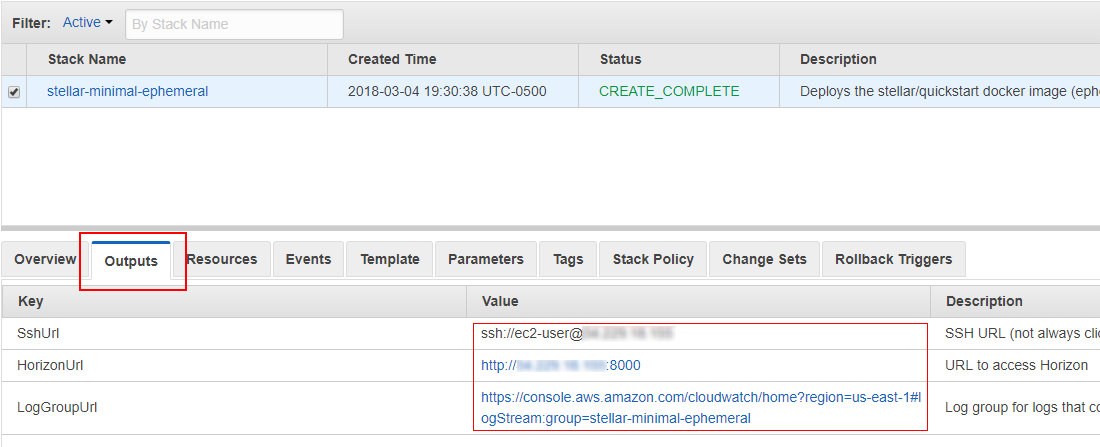
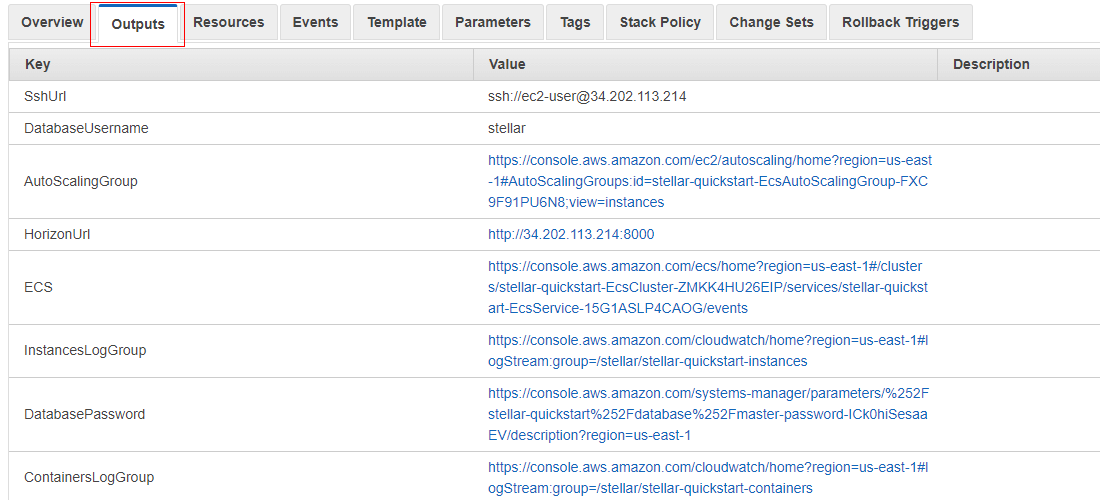
Auto-generate DB pass via CloudFormation and up docs accordingly
DB pass generated using backported SecretsManager.getRandomPassword()
Password is not stored in the param store instead of being shown in the
log file.

Changed region(s): [[0.0, 0.0, 1.0, 0.9888], [0.0, 0.9016, 0.1545, 0.9888], [0.0, 0.349, 0.1236, 0.3781]]

diff --git a/quickstart/README.md b/quickstart/README.md
@@ -91,10 +91,10 @@ It will take about 5 minutes for everything to be deloyed. You will see the reso
 ## Create Complete
 
 Once the deployment is done the status will be CREATE_COMPLETE. Switch to the **Outputs** tab to see the relevant URLs
-- The SSH URL shows the IP of the server and the username. Authentication is done using the key pair specified
-earlier.
+- The SSH URL shows the IP of the server and the username. Authentication is done using the key pair specified earlier.
 - The Horizon URL is a direct link to the Horizon API.
-- The Log Group URL will be used to find the PostgreSQL password.
+- The ContainersLogGroup URL where you see the basic supervisord startup logs for core, horizon and postgres.
+- The DatabaseUsername value and DatabasePassword link to the Parameter Store
 
 ![output URLs](images/create-complete-output.png)
 <br />
@@ -102,15 +102,10 @@ earlier.
 
 ## Finding the PostgreSQL password
 
-When you click on the Log Group URL you will be taken to a screen showing a randomly named log file, click on it.
+If you need database access, the PostgreSQL password is auto-generated by the template and stored securely in the 
+SSM Parameter Store. Click on the relevant link in the output tab to be taken to that page then click the link to 
+**Show** the value.
 
-![log group](images/log-group.png)
-
-From there you will see the log details including the PostgreSQL password
-
-![log details](images/log-details.png)
-<br />
-<br />
 
 ## Final Notes
 
@@ -118,9 +113,6 @@ From there you will see the log details including the PostgreSQL password
 
 1. The PostgreSQL port is not exposed to the internet. You must SSH into the server (or tunnel over SSH) to access the database.
 
-1. The IP address output at the end is static, if the instance gets replaced for some reason you will need go to the 
-[EC2 Console](https://console.aws.amazon.com/ec2/v2/home#Instances:sort=instanceId) to find the new address.
-
 1. Please remember to report issues specific to the [docker image](https://github.com/stellar/docker-stellar-core-horizon/issues),
-[stellar-core](https://github.com/stellar/stellar-core/issues), [Horizon](https://github.com/stellar/go/issues), etc 
+[stellar-core](https://github.com/stellar/stellar-core/issues), [horizon](https://github.com/stellar/go/issues), etc 
 to the appropriate repo and only report issues related to the CloudFormation template [here](https://github.com/starformlabs/stellar-nebulaforge-aws/issues). 
